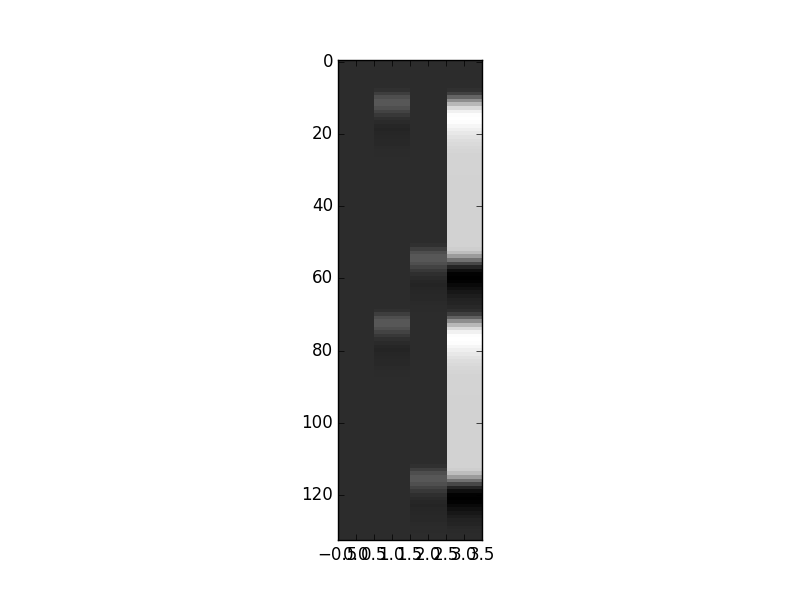
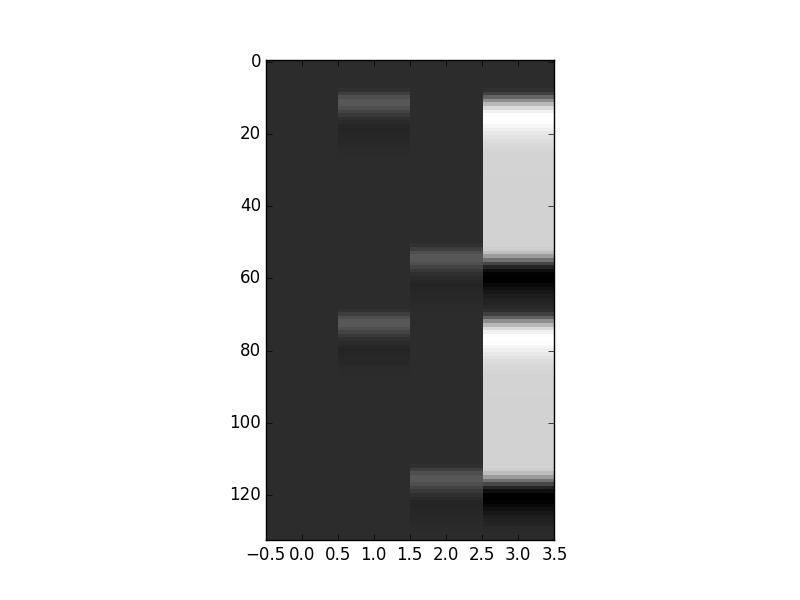
update all new images and sub_data

Changed region(s): [[0.2812, 0.09, 0.7188, 0.93]]

diff --git a/paper/sub_data.tex b/paper/sub_data.tex
@@ -1,0 +1,15 @@
+\subsection{Bonferroni Correction}
+The Bonferroni correction is a multiple-comparison correction used when several
+dependent or independent statistical tests are being performed simultaneously.
+In order to avoid a lot of spurious positives, the alpha value needs to be 
+lowered to account for the number of comparisons being performed.
+
+Suppose that the model is true so that $t_{1}, \hdots, t_{n}$ have the $t(n-p-2)$
+distribution. They are not neccessarily independent, then we would expect about
+$n \alpha$ number of $t_{1}, \hdots, t_{n}$ to be larger in absolute value than 
+than \alpha/2 critical value of the $t(n-p-2)$. Therefore, we would be tagging 
+$n \alpha$ of the subjects as outliers even when there are no outliers in the 
+data.
+
+To counter this, one takes a value of \alpha much smaller than 0.05 while 
+testing wheter the $i$th observation is an outlier or not. A particularly conservative value is $\alpha = 0.05/n$. In this case, one can show that the probability that at least one subject is tagged an outlier when in fact there are non is atmost 0.05. 

diff --git a/code/utils/linear_modeling/block_linear_modeling_script.py b/code/utils/linear_modeling/block_linear_modeling_script.py
@@ -36,7 +36,8 @@ design[:, 2] = end
 design[:, 3] = convo
 
 # Show the design matrix graphically
-plt.imshow(design, aspect=0.1, cmap='gray', interpolation = 'nearest')
+plt.figure(figsize=(8,6))
+plt.imshow(design, aspect=0.05, cmap='gray', interpolation = 'nearest')
 plt.savefig('../../../data/design_matrix/block_design_mat.png')
 
 # reshape data to 2D
@@ -188,7 +189,10 @@ fig.colorbar(io, cax=cax)
 plt.savefig("../../../data/maps/block_t_back_map.png")
 
 # generate p-map
+linear_modeling.p_map(1, 1, p_vols, 0.05)
+plt.savefig("../../../data/maps/block_p_map_0_05.png")
 linear_modeling.p_map(1, 1, p_vols, 0.05/133)
+plt.savefig("../../../data/maps/block_p_map.png")
 
 # P-value of auxilliary regression
 plt.figure()
@@ -198,5 +202,3 @@ plt.ylabel('P-value of auxilliary regression')
 line = plt.axhline(0.01, ls='--', color = 'red')
 plt.title('Hypothesis test on Heteroscedasticity')
 plt.savefig("../../../data/GLS/block_p_auxi.png")
-
-plt.show()
